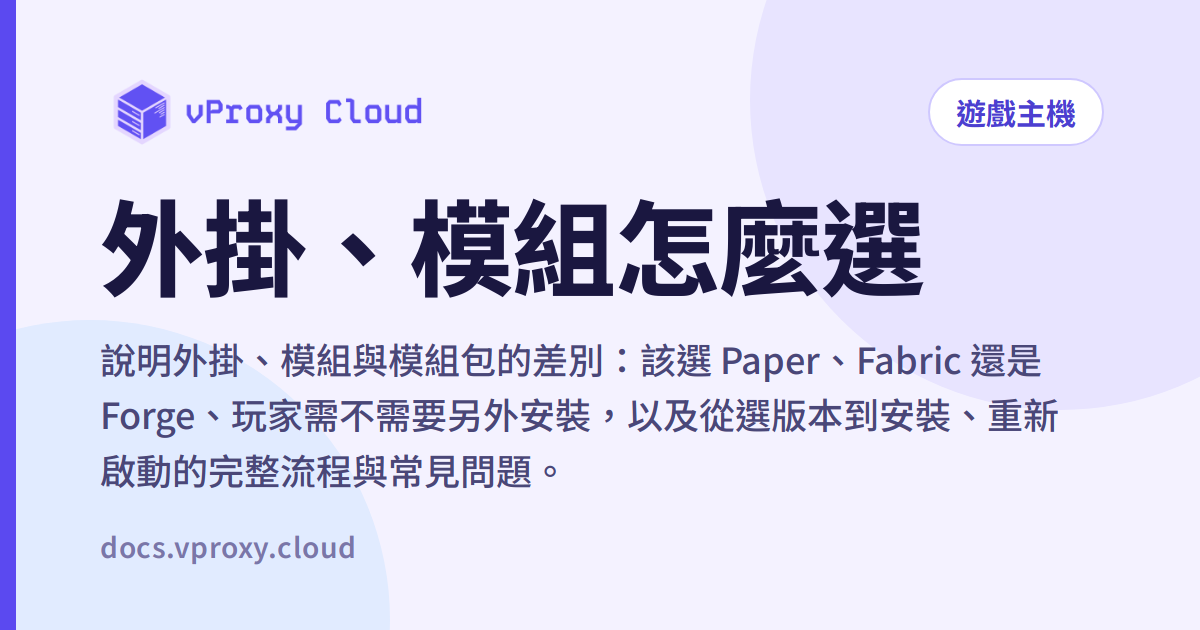
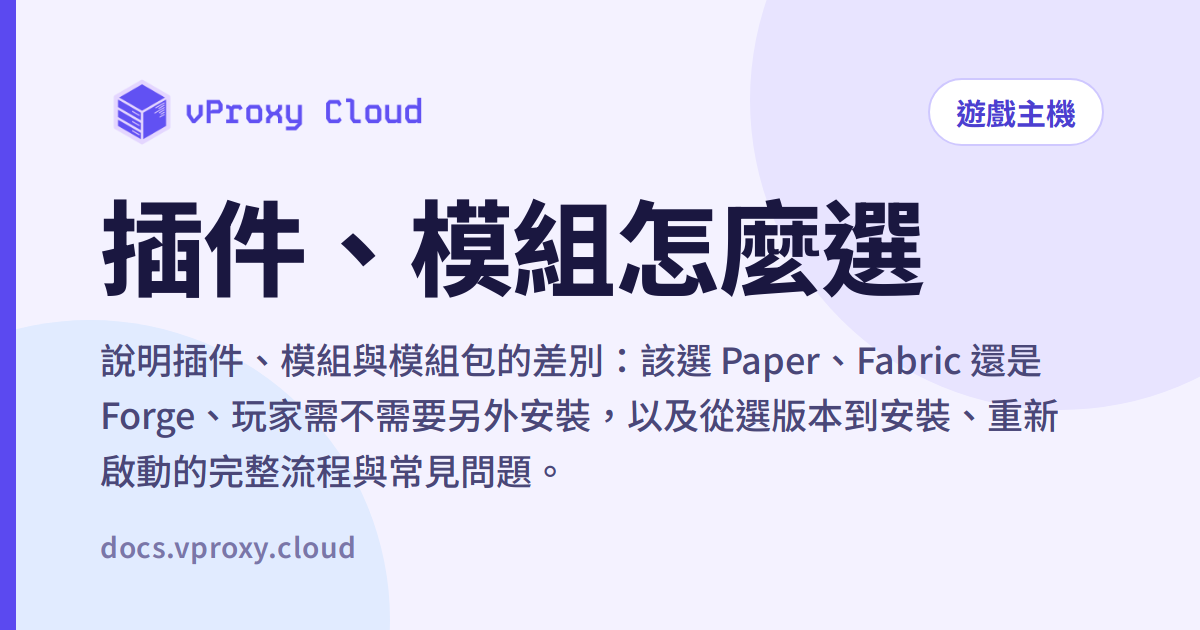
全站用語改為台灣習慣：「外掛」一律改稱「插件」
- 內文、頁面標題、搜尋描述與 README 共 160 處「外掛」改為「插件」（台灣的「外掛」通常指作弊軟體）
- 重新產生四張受影響的分享預覽圖（資料庫、手動上傳插件、單一插件、插件與模組怎麼選）
- 匯入腳本會自動把來源 manifest 裡的「外掛」換成「插件」
- 注意：單一插件教學的截圖畫面裡，開發站面板仍寫「外掛」，待面板改字後重拍

Changed region(s): [[0.0617, 0.3016, 0.2775, 0.4825], [0.1233, 0.5429, 0.2158, 0.6032]]

diff --git a/lib/seo.ts b/lib/seo.ts
@@ -85,15 +85,15 @@ export const SEO_DESCRIPTIONS: Record<string, string> = {
 	"gamecloud/sftp":
 		"使用 FileZilla 以 SFTP 連線遊戲伺服器，上傳與下載大型檔案或整個資料夾，包含取得連線資訊與重設 SFTP 密碼。",
 	"gamecloud/databases":
-		"查看遊戲主機的 MySQL 資料庫額度，說明尚未購買額度時如何加購，供外掛與模組使用。",
+		"查看遊戲主機的 MySQL 資料庫額度，說明尚未購買額度時如何加購，供插件與模組使用。",
 	"gamecloud/plugins-vs-mods":
-		"說明外掛、模組與模組包的差別：該選 Paper、Fabric 還是 Forge、玩家需不需要另外安裝，以及從選版本到安裝、重新啟動的完整流程與常見問題。",
+		"說明插件、模組與模組包的差別：該選 Paper、Fabric 還是 Forge、玩家需不需要另外安裝，以及從選版本到安裝、重新啟動的完整流程與常見問題。",
 	"gamecloud/versions":
 		"一步步安裝或更換 Minecraft 伺服器版本：選擇官方原版、Paper、Purpur、Forge 或 Fabric，並自動切換 Java，世界與設定檔都會保留。",
 	"gamecloud/plugins":
-		"在遊戲主機搜尋並一鍵安裝外掛：從 Modrinth、Hangar 或 CurseForge 選擇版本，自動安裝前置外掛，也能停用與移除。",
+		"在遊戲主機搜尋並一鍵安裝插件：從 Modrinth、Hangar 或 CurseForge 選擇版本，自動安裝前置插件，也能停用與移除。",
 	"gamecloud/plugin-upload":
-		"在遊戲主機手動上傳外掛 .jar 檔：下載外掛、放進 plugins 資料夾、重新啟動並確認載入，適用 Paper、Purpur、Spigot 等插件伺服器，以 Chunky 為例。",
+		"在遊戲主機手動上傳插件 .jar 檔：下載插件、放進 plugins 資料夾、重新啟動並確認載入，適用 Paper、Purpur、Spigot 等插件伺服器，以 Chunky 為例。",
 	"gamecloud/luckperms":
 		"用主控台指令設定 LuckPerms 權限：建立群組、替群組加上權限、把玩家加進群組，並使用網頁編輯器，附常用指令與注意事項。",
 	"gamecloud/essentials":

diff --git a/scripts/import-tutorials.py b/scripts/import-tutorials.py
@@ -33,6 +33,16 @@ def convert(job):
     return im.size
 
 
+# 台灣用語：「外掛」在台灣通常指作弊軟體，一律寫成「插件」（來源 manifest 的標題與說明都會經過這裡）
+TERMS = {"外掛": "插件"}
+
+
+def tw(s: str) -> str:
+    for a, b in TERMS.items():
+        s = s.replace(a, b)
+    return s
+
+
 def mdx_text(s: str) -> str:
     return s.replace("\\", "\\\\").replace("{", "\\{").replace("}", "\\}").replace("<", "&lt;").replace(">", "&gt;")
 
@@ -59,7 +69,7 @@ def main():
 
     jobs, meta = [], {}
     for tid in ids:
-        m = json.loads((src_root / tid / "manifest.json").read_text(encoding="utf-8"))
+        m = json.loads(tw((src_root / tid / "manifest.json").read_text(encoding="utf-8")))
         meta[tid] = m
         for s in m["steps"]:
             jobs.append((src_root / tid / s["annotated"], IMAGES / tid / f"{s['step']:02d}.webp"))

diff --git a/README.md b/README.md
@@ -32,7 +32,7 @@ git status --porcelain | awk '{print $2}' | grep '^public/.*\.png$' | xargs -P 6
 
 ## 逐步圖片教學（遊戲主機各功能頁）
 
-`content/docs/gamecloud/` 底下 14 個功能頁（主控台、檔案、版本安裝、單一外掛、模組包、世界上傳與下載、玩家管理、備份、排程、使用者、啟動設定、伺服器設定、網路、告警）是「每一步一張圖＋一句說明」的格式。
+`content/docs/gamecloud/` 底下 14 個功能頁（主控台、檔案、版本安裝、單一插件、模組包、世界上傳與下載、玩家管理、備份、排程、使用者、啟動設定、伺服器設定、網路、告警）是「每一步一張圖＋一句說明」的格式。
 
 - 圖片放在 `public/images/tutorials/<教學代號>/NN.webp`（**無損 WebP**，像素與原本的 PNG 完全相同，檔案約小 60%）。
 - 頁面中 `{/* tutorial:start */}` 與 `{/* tutorial:end */}` 之間的步驟是程式產生的，**不要手改**；標記外的簡介與提示框可以自由編輯。
